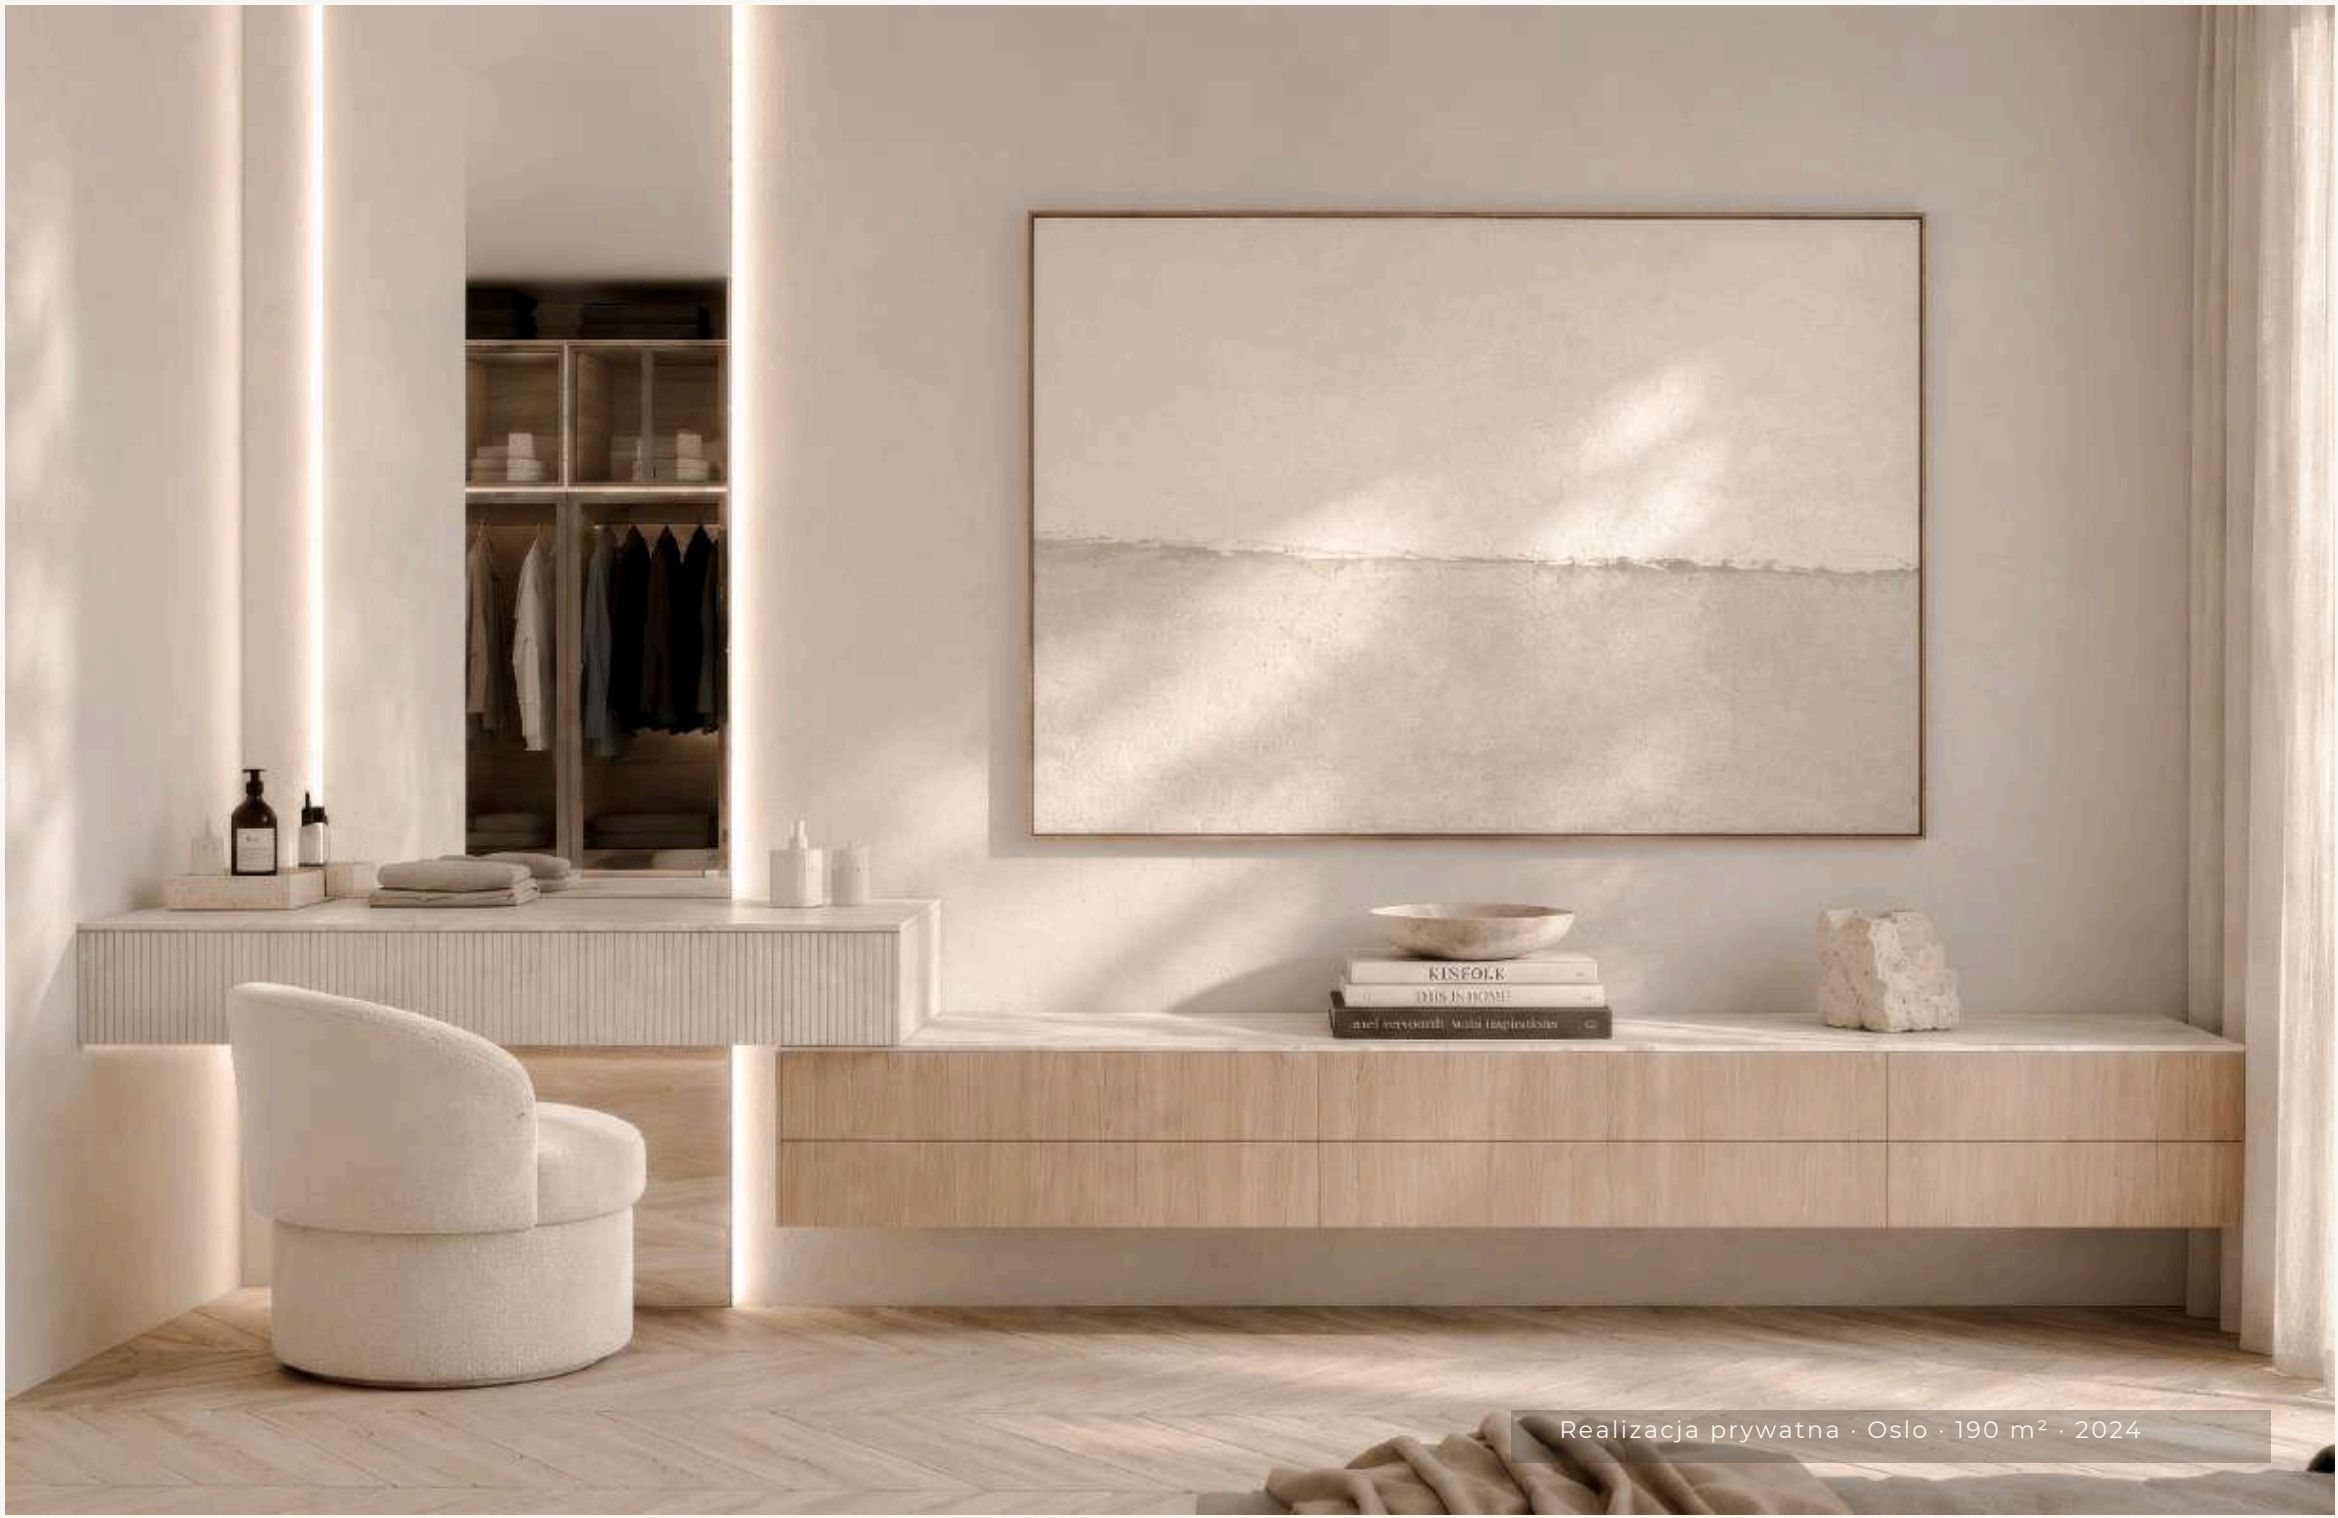
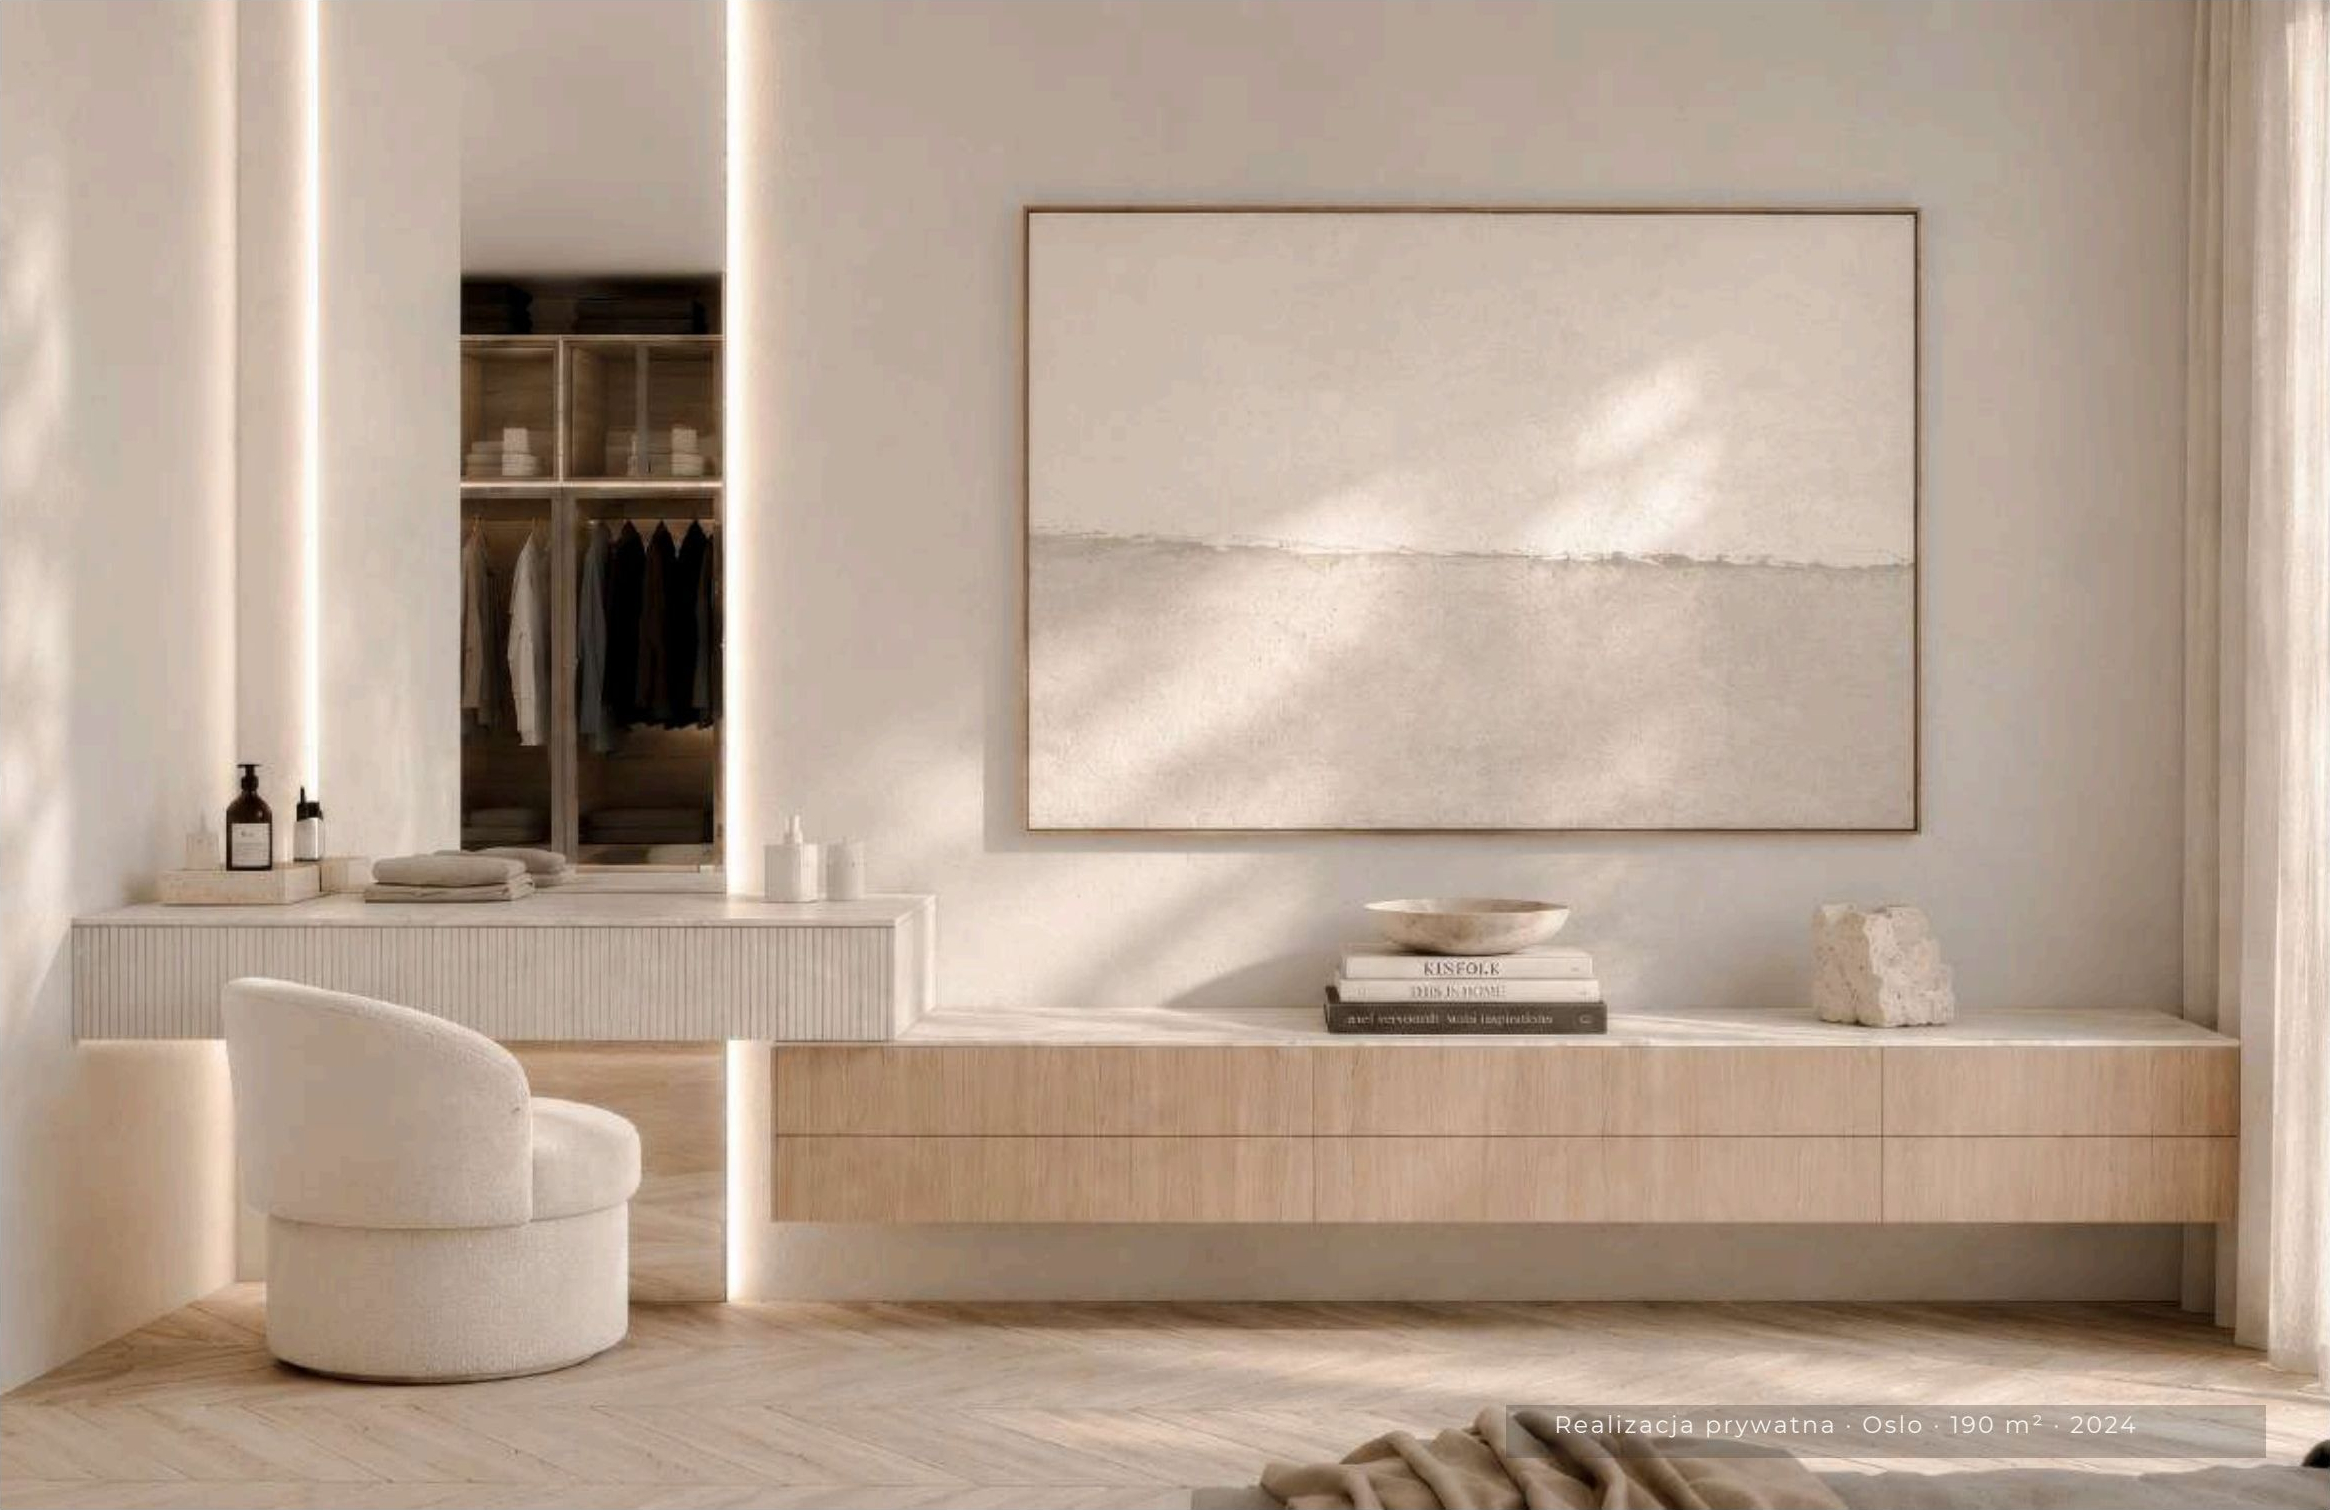
basic header

diff --git a/src/styles/global.css b/src/styles/global.css
@@ -14,7 +14,9 @@ body {
 h1,
 h2,
 h3,
-h4 {
+h4,
+h5,
+h6 {
   font-family: var(--font-display);
   font-weight: 300;
   letter-spacing: -0.015em;
